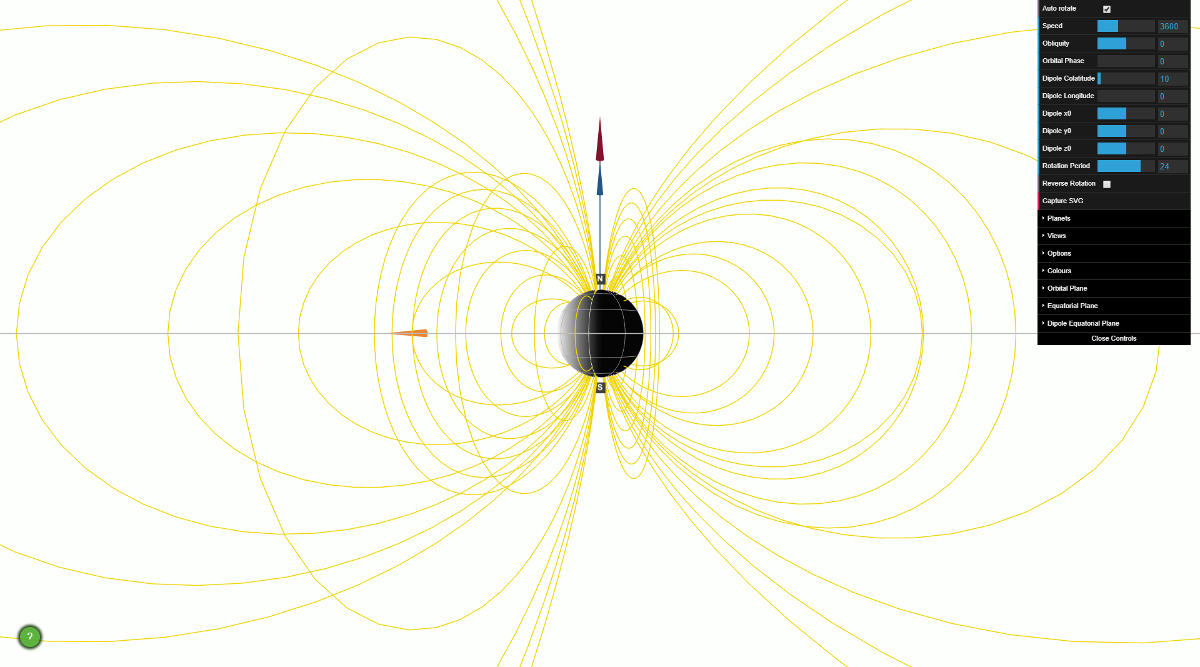
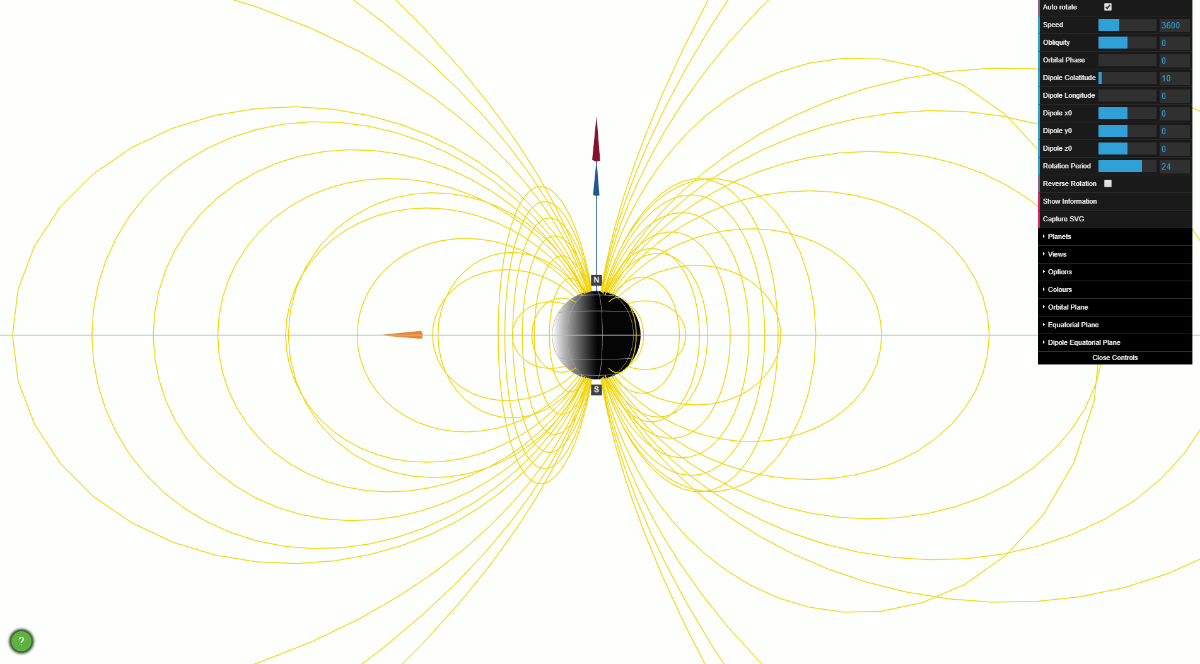
Updated Uranus magnetic field definition and added workaround for DAT.gui bug.  Updated to v0.7.

diff --git a/source/js/ikuchi.js b/source/js/ikuchi.js
@@ -1,7 +1,7 @@
 /**
 ***	@file Provides all the GUI functions for Ikuchi.
 ***	@author Chris Arridge, Lancaster University <c.arridge@lancaster.ac.uk>
-***	@version 6
+***	@version 7
 ***	@copyright Lancaster University (2019)
 ***	@licence GNU GPL v3.
 **/
@@ -104,7 +104,7 @@ class Ikuchi {
 		this.planetObjects = new Map();
 	}
 
-	/** Add planet (defined in an object literal - see ikuchi-planets.js) to the app.
+	/** Add planet (defined in an object literal - see planets.js) to the app.
 	***
 	*** @param {object} pl The object literal defining the planet.
 	**/
@@ -287,15 +287,15 @@ class Ikuchi {
 		// init GUI.
 		this.gui = new dat.GUI({height : 5 * 32 - 1});
 		this.gui.add(this, 'autoRotate').name('Auto rotate')
-		this.gui.add(this, 'speedUp').name('Speed').min(100.0).max(10000.0).step(1.0).listen();
-		this.gui.add(this, 'rotationY').name('Obliquity').min(-90.0).max(90.0).step(5.0).listen();
-		this.gui.add(this, 'rotationZ').name('Orbital Phase').min(0.0).max(360.0).step(10.0).listen();
-		this.gui.add(this, 'dipolePoleColatitude').name('Dipole Colatitude').min(0.0).max(180.0).step(5.0).listen().onChange(this.onChangeDipoleProperties.bind(this));
-		this.gui.add(this, 'dipolePoleLongitude').name('Dipole Longitude').min(0.0).max(360.0).step(5.0).listen().onChange(this.onChangeDipoleProperties.bind(this));
-		this.gui.add(this, 'dipoleOriginX').name('Dipole x0').min(-1.0).max(1.0).step(0.02).listen().onChange(this.onChangeDipoleProperties.bind(this));
-		this.gui.add(this, 'dipoleOriginY').name('Dipole y0').min(-1.0).max(1.0).step(0.02).listen().onChange(this.onChangeDipoleProperties.bind(this));
-		this.gui.add(this, 'dipoleOriginZ').name('Dipole z0').min(-1.0).max(1.0).step(0.02).listen().onChange(this.onChangeDipoleProperties.bind(this));
-		this.gui.add(this, 'rotationPeriod').name('Rotation Period').min(9.0).max(29.0).step(0.05).listen();
+		this.gui.add(this, 'speedUp').name('Speed').min(100.0).max(10000.0).step(1.0);
+		this.gui.add(this, 'rotationY').name('Obliquity').min(-90.0).max(90.0).step(5.0);
+		this.gui.add(this, 'rotationZ').name('Orbital Phase').min(0.0).max(360.0).step(10.0);
+		this.gui.add(this, 'dipolePoleColatitude').name('Dipole Colatitude').min(0.0).max(180.0).step(5.0).onChange(this.onChangeDipoleProperties.bind(this));
+		this.gui.add(this, 'dipolePoleLongitude').name('Dipole Longitude').min(0.0).max(360.0).step(5.0).onChange(this.onChangeDipoleProperties.bind(this));
+		this.gui.add(this, 'dipoleOriginX').name('Dipole x0').min(-1.0).max(1.0).step(0.02).onChange(this.onChangeDipoleProperties.bind(this));
+		this.gui.add(this, 'dipoleOriginY').name('Dipole y0').min(-1.0).max(1.0).step(0.02).onChange(this.onChangeDipoleProperties.bind(this));
+		this.gui.add(this, 'dipoleOriginZ').name('Dipole z0').min(-1.0).max(1.0).step(0.02).onChange(this.onChangeDipoleProperties.bind(this));
+		this.gui.add(this, 'rotationPeriod').name('Rotation Period').min(9.0).max(29.0).step(0.05);
 		this.gui.add(this, 'rotationReversed').name('Reverse Rotation').listen().onChange(this.onChangeRotationReversed.bind(this));
 		this.gui.add(this, 'planetaryInfo').name('Show Information');
 		this.gui.add(this, 'captureSVG').name('Capture SVG Code');
@@ -771,6 +771,11 @@ class Ikuchi {
 			tmp.get().material.color.setStyle(this.discreteRingColour)
 
 			this.guiFolderPlanets.add(this.ringVisible, this.nameToLabel(cPlanet.discreteRingNames[i],'ring')).name(cPlanet.discreteRingNames[i]).onChange(this.onChangeRingVisibility.bind(this));
+		}
+
+		// update GUI display
+		for (i in this.gui.__controllers) {
+			this.gui.__controllers[i].updateDisplay();
 		}
 	}
 

diff --git a/source/ikuchi.html b/source/ikuchi.html
@@ -1,7 +1,7 @@
 <!DOCTYPE html>
 <html lang="en">
 	<head>
-		<title>Ikuchi 0.6b (2019-09-19) - Simple Magnetosphere Viewer</title>
+		<title>Ikuchi 0.7 (2020-03-05) - Simple Magnetosphere Viewer</title>
 		<meta charset="utf-8"/>
 		<meta name="viewport" content="width=device-width, user-scalable=no, minimum-scale=1.0, maximum-scale=1.0"/>
 
@@ -17,8 +17,8 @@
 		<script type='text/javascript' src='js/lib/Projector.js'></script>
 		<script type='text/javascript' src='js/lib/SVGRenderer.js'></script>
 		<script type='text/javascript' src='js/lib/dat.gui.min.js'></script>
+
 		<script type='text/javascript' src='js/ikuchi-pregenerated.js'></script>
-		<script type='text/javascript' src='js/ikuchi-planets.js'></script>
 		<script type='text/javascript' src='js/ikuchi-ringsandstuff.js'></script>
 		<script type='text/javascript' src='js/ikuchi.js'></script>
 
@@ -35,14 +35,14 @@
 					<span id="closeButton" class="close">&times;</span>
 				</div>
 				<div class="text">
-					<h1>Ikuchi v0.6b (2019-09-19)</h1>
+					<h1>Ikuchi v0.7 (2020-03-05)</h1>
 					<p>Ikuchi is designed for quickly viewing the realistic 3D and time-dependent geometry of giant planet magnetospheres, particularly Uranus and Neptune. For more details see the included documentation in <strong>README.md</strong>. The word Ikuchi refers to a <a href="https://en.wikipedia.org/wiki/Ikuchi" target="_blank">supernatural sea creature</a> from <a href="https://en.wikipedia.org/wiki/Y%C5%8Dkai" target="_blank">Japanese legend</a>. In some depictions they appear as a sort of Kraken with tentacles that they uses to envelop passing ships.</p>
 
 					<p>Contributors: <a href="https://www.lancaster.ac.uk/physics/about-us/people/chris-arridge" target="_blank">Chris Arridge</a> (<a href="https://www.lancaster.ac.uk/physics/research/astrophysics/space-and-planetary-physics/" target="_blank">Lancaster University</a>) and <a href="https://www.lancaster.ac.uk/physics/about-us/people/josh-wiggs" target="_blank">Josh Wiggs</a> (<a href="https://www.lancaster.ac.uk/physics/research/astrophysics/space-and-planetary-physics/" target="_blank">Lancaster University</a>).</p>
 
 					<p>The tool also uses texture maps from <a href="http://planetpixelemporium.com/planets.html" target="_blank">Planet Pixel Emporium</a> which are copyright James Hastings-Trew. This about box image uses a texture by <a href="https://www.freepik.com/efe-madrid" target="_blank">efe_madrid</a>. The artwork itself was inspired by the works of <a href="https://en.wikipedia.org/wiki/Toriyama_Sekien" target="_blank">Sano Toyofusa</a> and <a href="https://en.wikipedia.org/wiki/Hokusai" target="_blank">Katsushika Hokusai</a>.</p>
 
-					<p><strong>Copyright (c) 2019 Lancaster University.</strong></p>
+					<p><strong>Copyright (c) 2019-2020 Lancaster University.</strong></p>
 					<p>This program is free software: you can redistribute it and/or modify it under the terms of the GNU General Public License as published by the Free Software Foundation, either version 3 of the License, or (at your option) any later version.</p>
 					<p>This program is distributed in the hope that it will be useful, but WITHOUT ANY WARRANTY; without even the implied warranty of MERCHANTABILITY or FITNESS FOR A PARTICULAR PURPOSE.  See the <a href="https://www.gnu.org/licenses/" target="_blank">GNU General Public License</a> for more details.</p>
 					<p>You should have received a copy of the GNU General Public License along with this program.  If not, see <a href="https://www.gnu.org/licenses/" target="_blank">GNU Licences</a>.</p>

diff --git a/README.md b/README.md
@@ -12,7 +12,7 @@ Ikuchi refers to a [supernatural sea creature](https://en.wikipedia.org/wiki/Iku
 Just copy the `Ikuchi` `source` folder somewhere on your machine. The folder can be renamed. The `Ikuchi.html` file must be in the same location as the `js` and `css` folders.
 
 ## Licence
-Copyright (C) 2019 Chris Arridge and Lancaster University
+Copyright (C) 2019-2020 Chris Arridge, Josh Wiggs and Lancaster University
 
 This program is free software: you can redistribute it and/or modify it under
 the terms of the GNU General Public License as published by the Free Software
@@ -72,11 +72,11 @@ The GUI controls include a number of customisation controls that allow the user 
 
 ## Future work
 Features that are being developed are:
-* Add magnetopause and bow shock models.
-* Add custom magnetic field models (e.g., traces from 'geopack' and spherical harmonic internal field models).
 * Modify planets so that they are biaxial ellipsoids to account for the polar flattening of the giant planets.
 * Colour surface by field strength.
 * Add magnetic equator to planet surface.
+* Add magnetopause and bow shock models.
+* Add custom magnetic field models (e.g., traces from 'geopack' and spherical harmonic internal field models).
 * Add current sheet surfaces.
 * Add aurora rendering.
 * Add time series widget to show dipole-Sun vector attack angle.

diff --git a/CHANGES.md b/CHANGES.md
@@ -1,5 +1,18 @@
 # Change history
 
+## Version 0.7 - 2020-03-05 - Josh Wiggs <j.wiggs@lancaster.ac.uk> and Chris Arridge <c.arridge@lancaster.ac.uk>/Lancaster University
+* Configuration data for each of the planets has been changed from a Javascript
+file dumping data into the global space into a JSON file from which each
+planet is setup dynamically.
+* Meta data added to each planet including notes about origins of definitions.
+* Added 'Show Information' button in the GUI to show meta data for each planet.
+* CSS Fixes.
+* Updated Uranus magnetic field definition to reflect that Uranus is rendered using
+the IAU pole definition.  This was incorrectly applied in the previous version.
+* Fixed bug where the NumberControllerBox in DAT.gui could not be adjusted using
+the text boxes.  Added work-around by removing .listen() and adding an explicit
+update when each planet changes (e.g., https://github.com/dataarts/dat.gui/issues/179).
+
 ## Version 0.6b - 2019-09-19 - Chris Arridge <c.arridge@lancaster.ac.uk>/Lancaster University
 * Fixed moon orbit bug where moons would continue to orbit the planet when auto
 rotate was turned off. Also fixed bug where moons would not respond to changes in speedup factor.
